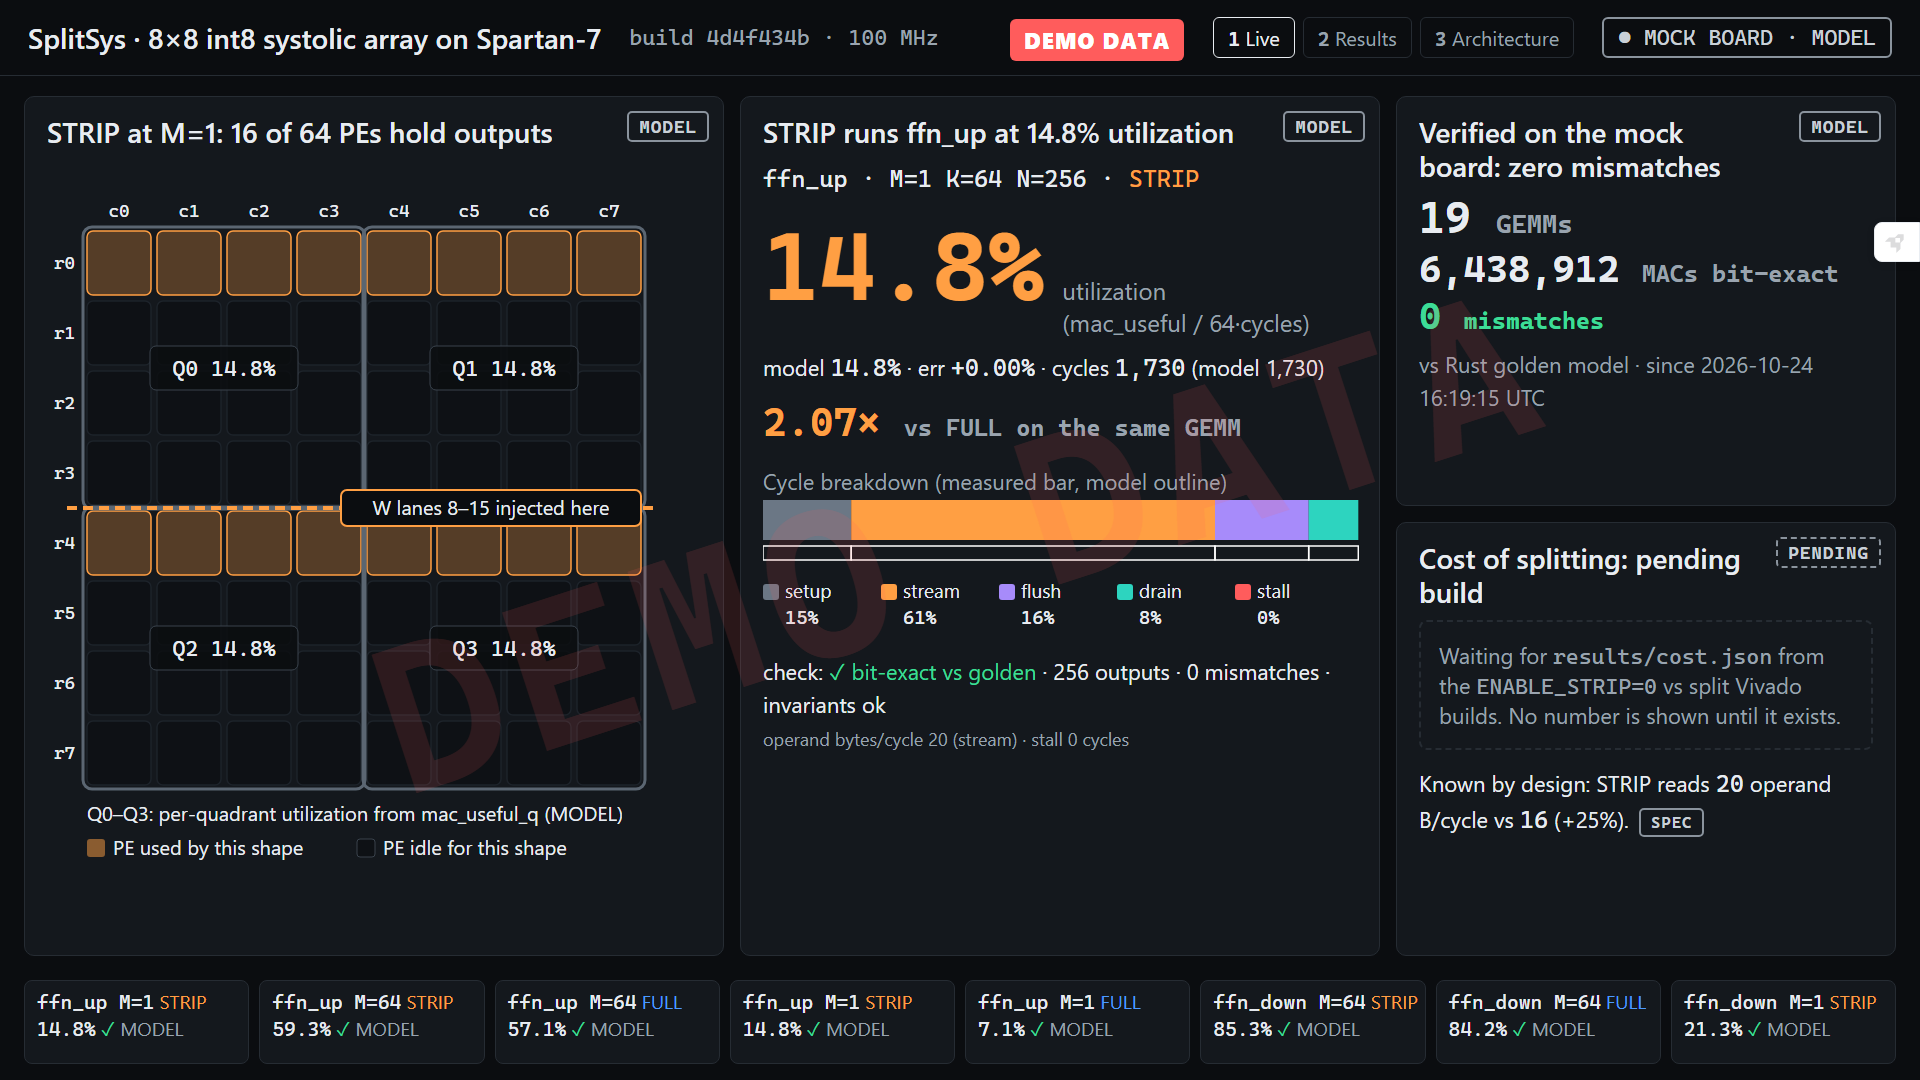
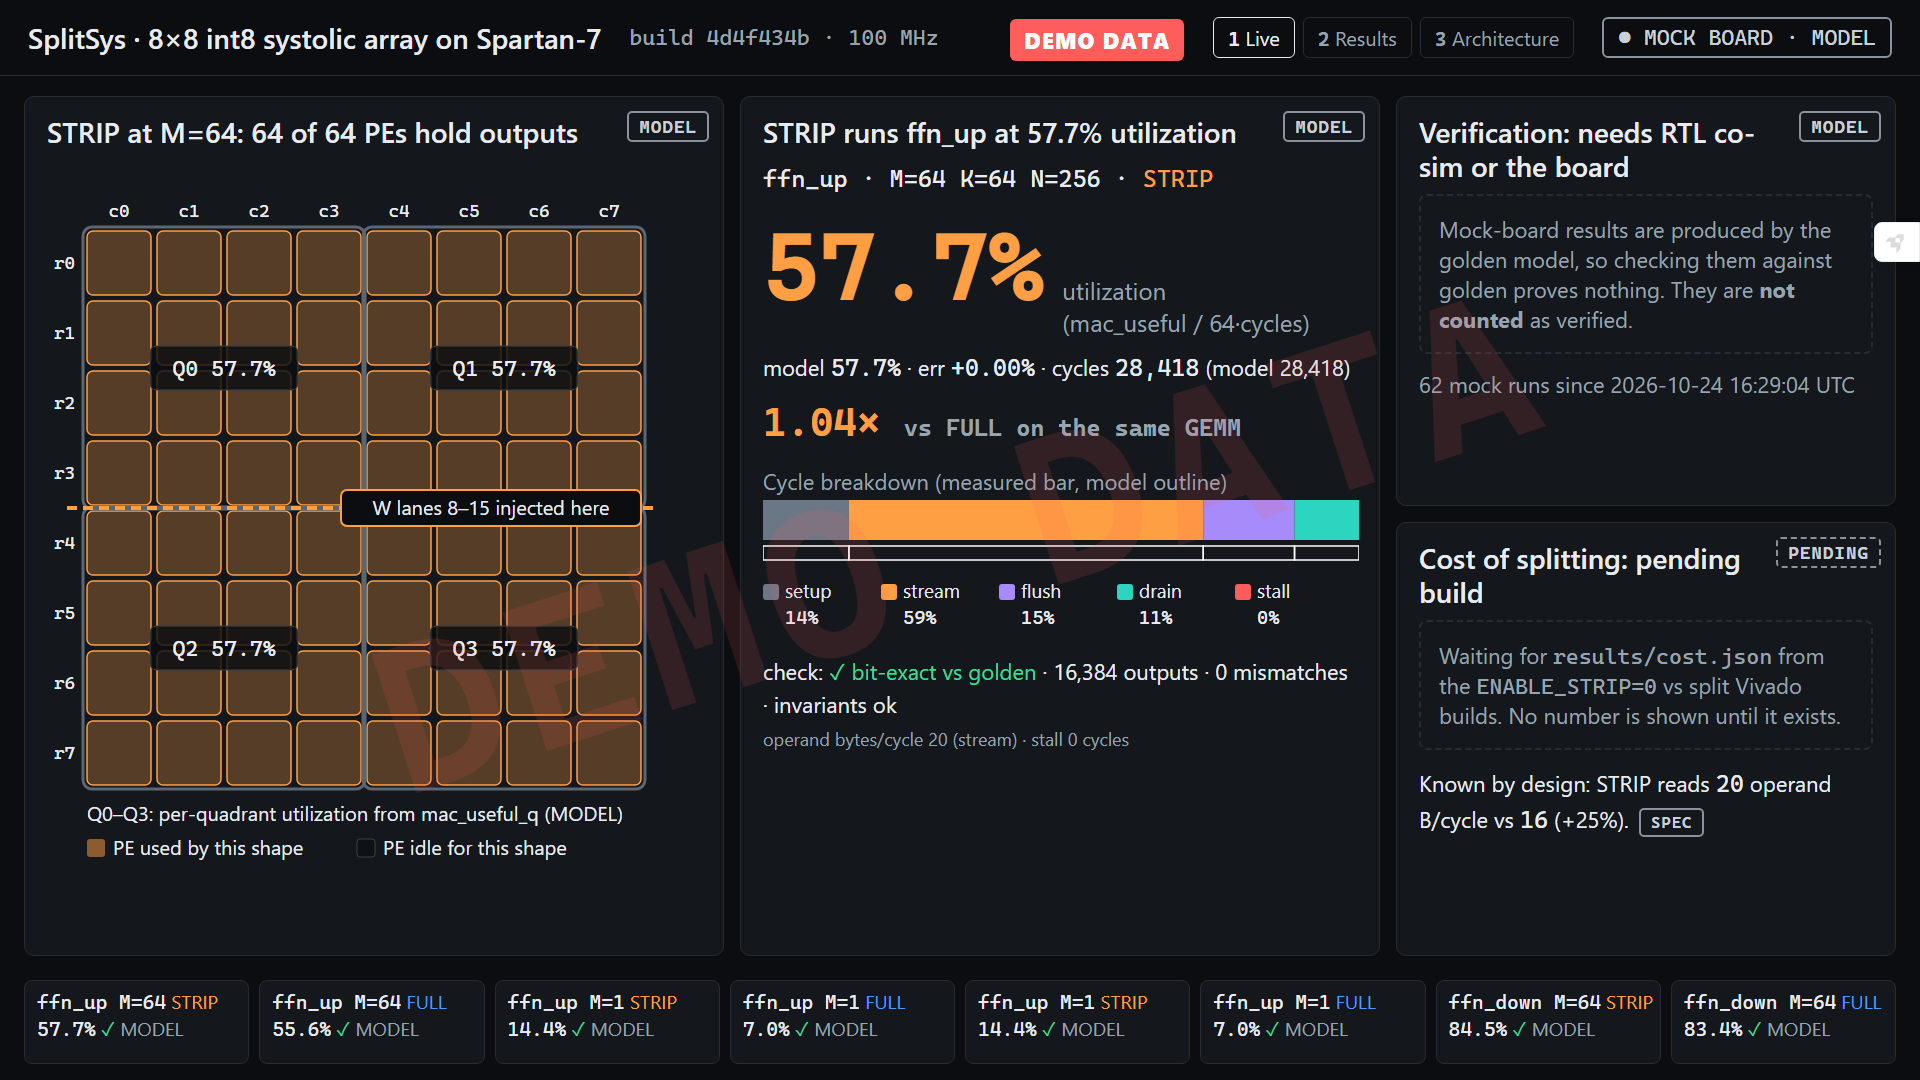
[host-dashboard] mock runs -> results/mock (mock:true, never counted as verified), vec-rom self-test default, start_demo.ps1/.bat/.sh, Cargo.lock (lead-authorized), 1920x1080 screenshots — cargo test -p splitsys-host (41 passed), clippy -D warnings, cargo build --locked passed

diff --git a/demo/app.js b/demo/app.js
@@ -253,6 +253,14 @@ function renderVerified() {
   const s = S.session || {};
   setBadge('ver-badge', srcLabel());
   const where = { hw: 'on hardware', sim: 'in RTL co-sim', model: 'on the mock board', replay: 'on hardware (replay)' }[srcLabel()] || '';
+  if (srcLabel() === 'model') {
+    // Mock-board output is computed by the golden model itself: comparing it to
+    // golden is circular, so nothing is counted as verified here.
+    $('ver-title').textContent = 'Verification: needs RTL co-sim or the board';
+    $('ver-body').innerHTML = `<div class="pending-box">Mock-board results are produced by the golden model, so checking them against golden proves nothing. They are <b>not counted</b> as verified.</div>
+      <div class="kv muted" style="margin-top:14px">${int(s.gemms_run || 0)} mock runs since ${esc((s.started_utc || '').replace('T', ' ').replace('Z', ' UTC'))}</div>`;
+    return;
+  }
   const mm = s.mismatches || 0;
   $('ver-title').textContent = `Verified ${where}:${mm === 0 ? 'zero mismatches' : mm + ' mismatches'}`;
   $('ver-body').innerHTML = `

diff --git a/sw/crates/host/src/record.rs b/sw/crates/host/src/record.rs
@@ -87,6 +87,11 @@ pub struct RunRecord {
     pub model: ModelInfo,
     pub derived: Derived,
     pub check: Check,
+    /// True for runs on the mock board: golden_match is circular there (the mock
+    /// computes its output with the same golden model), so they are never counted
+    /// as verification.
+    #[serde(default, skip_serializing_if = "std::ops::Not::not")]
+    pub mock: bool,
     #[serde(default, skip_serializing_if = "is_default_prov")]
     pub provenance: Provenance,
 }
@@ -243,11 +248,11 @@ pub fn repo_root() -> PathBuf {
     PathBuf::from(".")
 }
 
-/// Directory for run records of a source. Mock (model) runs go to
-/// `results/model/mock/` so they can never be mistaken for hardware results.
+/// Directory for run records of a source. Mock-board (source "model") runs go to
+/// `results/mock/` so they can never be mistaken for hardware or perf-modeler results.
 pub fn runs_dir(results: &Path, source: &str) -> PathBuf {
     match source {
-        "model" => results.join("model").join("mock"),
+        "model" => results.join("mock"),
         s => results.join(s),
     }
 }
@@ -314,7 +319,9 @@ impl Session {
 
     pub fn add(&mut self, r: &RunRecord) {
         self.gemms_run += 1;
-        if r.verified() {
+        if r.mock {
+            // Circular check (mock output comes from golden): never counted as verified.
+        } else if r.verified() {
             self.gemms_verified += 1;
             self.macs_verified += r.counters.mac_useful;
         } else {
@@ -397,10 +404,10 @@ mod tests {
     #[test]
     fn paths_never_mix_sources() {
         let r = Path::new("results");
-        assert_eq!(runs_dir(r, "model"), Path::new("results/model/mock"));
+        assert_eq!(runs_dir(r, "model"), Path::new("results/mock"));
         assert_eq!(runs_dir(r, "hw"), Path::new("results/hw"));
         assert_eq!(session_path(r, "hw"), Path::new("results/session.json"));
-        assert_eq!(session_path(r, "model"), Path::new("results/model/mock/session.json"));
+        assert_eq!(session_path(r, "model"), Path::new("results/mock/session.json"));
         assert_eq!(run_file_name("2026-10-24T15:02:11Z-x"), "2026-10-24T15-02-11Z-x.json");
     }
 }

diff --git a/sw/crates/host/src/main.rs b/sw/crates/host/src/main.rs
@@ -271,7 +271,7 @@ fn run_specs(
     let mut rows = Vec::new();
     let t0 = Instant::now();
     if src == "model" {
-        println!("NOTE: mock transport — every number below is MODEL data (source \"model\"), not hardware.");
+        println!("NOTE: mock board — every number below is MODEL data (source \"model\", mock: true), not hardware; mock runs are never counted as verified.");
     }
     println!(
         "{:<10} {:>3} {:>4} {:>4} {:<5} {:>9} {:>8} {:>8} {:>9}  {:<6} file",
@@ -325,9 +325,10 @@ fn run_specs(
         println!("summary: {}", p.display());
     }
     println!(
-        "{} run(s), {} verified; session {}: {} GEMMs verified, {} MACs, {} mismatches; link retries {}",
+        "{} run(s), {} passed checks{}; session {}: {} GEMMs verified, {} MACs, {} mismatches; link retries {}",
         specs.len(),
         if all_ok { "all" } else { "NOT all" },
+        if src == "model" { " (mock board: circular, not counted as verified)" } else { "" },
         session_path(results, src).display(),
         session.gemms_verified,
         session.macs_verified,

diff --git a/sw/crates/host/src/runner.rs b/sw/crates/host/src/runner.rs
@@ -309,6 +309,7 @@ pub fn run_gemm(
         }
     }
     let rec = RunRecord {
+        mock: ctx.build_id.as_deref() == Some(MOCK_BUILD_ID_HEX),
         run_id: run_id.clone(),
         source: src.into(),
         build_id: ctx.build_id.clone().unwrap_or_default(),
@@ -417,6 +418,7 @@ mod tests {
             assert_eq!(r.counters, r.model.counters, "mock counters come from the model");
             assert_eq!(r.counters.mac_useful, (g.m * g.n * g.k) as u64);
             assert_eq!(r.source, "model");
+            assert!(r.mock);
             assert_eq!(r.build_id, "4d4f434b");
             crate::record::validate_run_json(&serde_json::to_value(&r).unwrap()).unwrap();
         }
